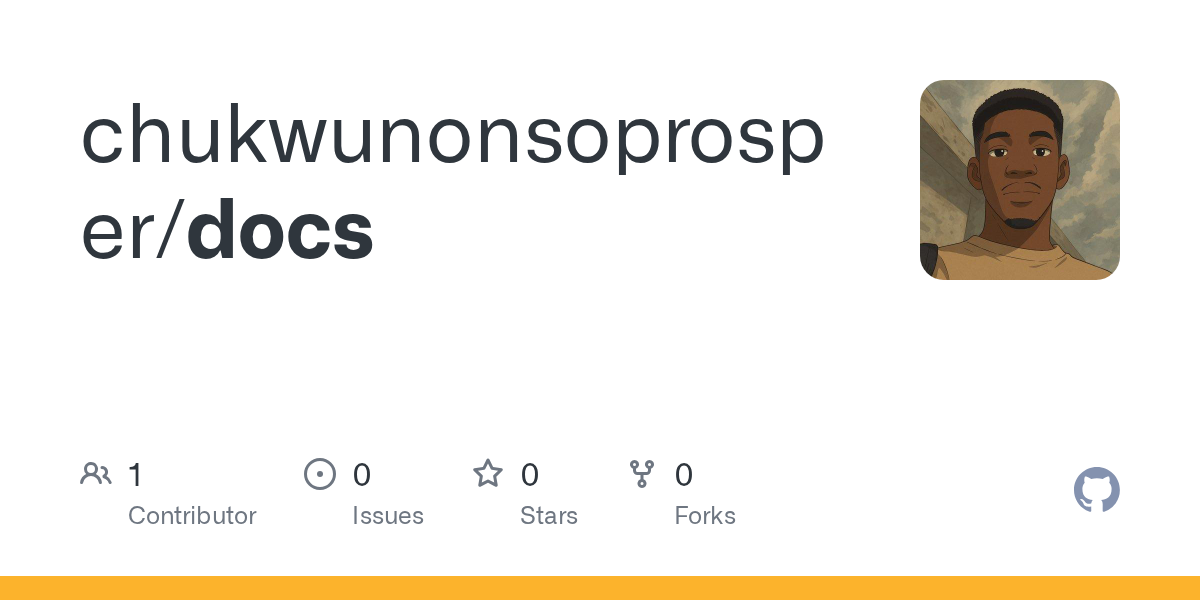
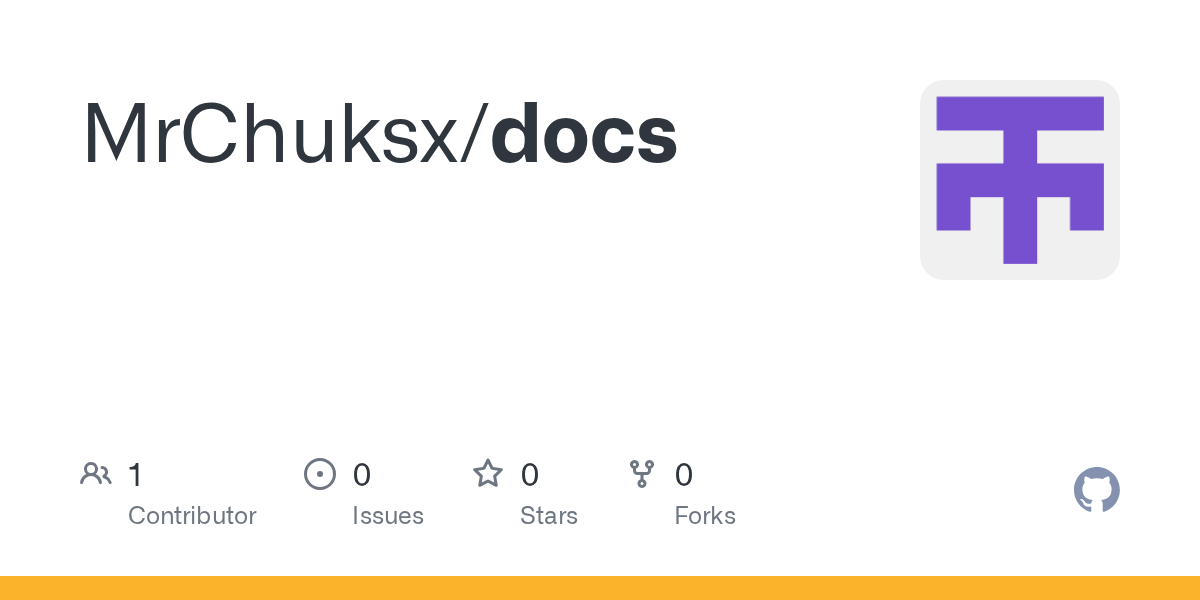
Changes

Changed region(s): [[0.74, 0.12, 0.9558, 0.48], [0.0617, 0.15, 0.7092, 0.3], [0.0617, 0.33, 0.3083, 0.45]]

diff --git a/src/components/ProjectsSection.tsx b/src/components/ProjectsSection.tsx
@@ -2,11 +2,11 @@ import { ExternalLink, Github, Star } from "lucide-react";
 import { motion } from "framer-motion";
 import FadeIn from "./FadeIn";
 
-import forgrImg from "@/assets/projects/forgr.png";
-import cryptiaImg from "@/assets/projects/cryptia.png";
-import xmatorImg from "@/assets/projects/xmator.png";
-import autoresolverImg from "@/assets/projects/autoresolver.png";
-import filenexImg from "@/assets/projects/filenex.png";
+import guidoraImg from "@/assets/projects/guidora.png";
+import uniResultsImg from "@/assets/projects/uni-results.png";
+import visionCraftImg from "@/assets/projects/vision-craft.png";
+import darkPortfolioImg from "@/assets/projects/dark-portfolio.png";
+import orgImg from "@/assets/projects/org.png";
 import docsImg from "@/assets/projects/docs.png";
 
 interface Project {
@@ -16,57 +16,62 @@ interface Project {
   github: string;
   language: string;
   stars: number;
+  liveUrl?: string;
 }
 
 const mainProjects: Project[] = [
   {
-    title: "Forgr",
-    description: "An open-source PHP library that lets you turn any PHP function into a RESTful API endpoint with one route.",
-    image: forgrImg,
-    github: "https://github.com/chukwunonsoprosper/forgr",
-    language: "PHP",
-    stars: 31,
+    title: "Guidora",
+    description: "A career compass app that helps users discover and navigate career paths with guided recommendations.",
+    image: guidoraImg,
+    github: "https://github.com/MrChuksx/guidora-your-career-compass",
+    language: "TypeScript",
+    stars: 0,
   },
   {
-    title: "CryptiaJS",
-    description: "A lightweight and secure JavaScript library for encrypting and decrypting text using a substitution cipher.",
-    image: cryptiaImg,
-    github: "https://github.com/chukwunonsoprosper/cryptia",
-    language: "JavaScript",
-    stars: 53,
+    title: "Uni Results Hub",
+    description: "A university results management platform for viewing and tracking academic performance.",
+    image: uniResultsImg,
+    github: "https://github.com/MrChuksx/uni-results-hub-09811d83",
+    language: "TypeScript",
+    stars: 0,
+    liveUrl: "https://uni-results-hub-09811d83.vercel.app",
   },
   {
-    title: "Xmator",
-    description: "An advanced automation script that intelligently cleans up your following list on X, preserving tech-related accounts.",
-    image: xmatorImg,
-    github: "https://github.com/chukwunonsoprosper/Xmator",
-    language: "JavaScript",
-    stars: 30,
+    title: "Vision Craft",
+    description: "A creative portfolio and vision board application for showcasing work and ideas.",
+    image: visionCraftImg,
+    github: "https://github.com/MrChuksx/chuks-vision-craft",
+    language: "TypeScript",
+    stars: 0,
+    liveUrl: "https://chuks-craft.vercel.app",
   },
 ];
 
 const moreProjects: Project[] = [
   {
-    title: "AutoResolver",
-    description: "A tiny dependency injector that figures out what your functions need and gives them just that — no manual wiring.",
-    image: autoresolverImg,
-    github: "https://github.com/chukwunonsoprosper/autoresolver",
-    language: "JavaScript",
+    title: "Dark Elegance Portfolio",
+    description: "A sleek, dark-themed personal portfolio website with modern design and smooth animations.",
+    image: darkPortfolioImg,
+    github: "https://github.com/MrChuksx/dark-elegance-portfolio",
+    language: "TypeScript",
     stars: 0,
+    liveUrl: "https://mrchuksvision.vercel.app",
   },
   {
-    title: "FileNex",
-    description: "Monitor important folders on the desktop directory and automatically push to your FTP server.",
-    image: filenexImg,
-    github: "https://github.com/chukwunonsoprosper/filenex",
-    language: "JavaScript",
+    title: "MrChuksx's Org",
+    description: "An organizational project built with Google Gemini AI Studio template for intelligent workflows.",
+    image: orgImg,
+    github: "https://github.com/MrChuksx/MrChuksx-s-Org",
+    language: "TypeScript",
     stars: 0,
+    liveUrl: "https://mr-chuksx-s-org.vercel.app",
   },
   {
     title: "Docs",
-    description: "Personal documentation and knowledge base built with MDX for clean, structured technical writing.",
+    description: "Personal documentation and knowledge base built with Mintlify for clean, structured technical writing.",
     image: docsImg,
-    github: "https://github.com/chukwunonsoprosper/docs",
+    github: "https://github.com/MrChuksx/docs",
     language: "MDX",
     stars: 0,
   },
@@ -129,6 +134,18 @@ const ProjectCard = ({ project, index }: { project: Project; index: number }) =>
       >
         GitHub <Github className="w-3 h-3" />
       </motion.a>
+      {project.liveUrl && (
+        <motion.a
+          href={project.liveUrl}
+          target="_blank"
+          rel="noopener noreferrer"
+          className="inline-flex items-center gap-2 text-xs tracking-widest uppercase text-foreground hover:opacity-70 transition-opacity"
+          whileHover={{ x: 4 }}
+          transition={{ duration: 0.2 }}
+        >
+          Live <ExternalLink className="w-3 h-3" />
+        </motion.a>
+      )}
     </div>
   </motion.div>
 );
